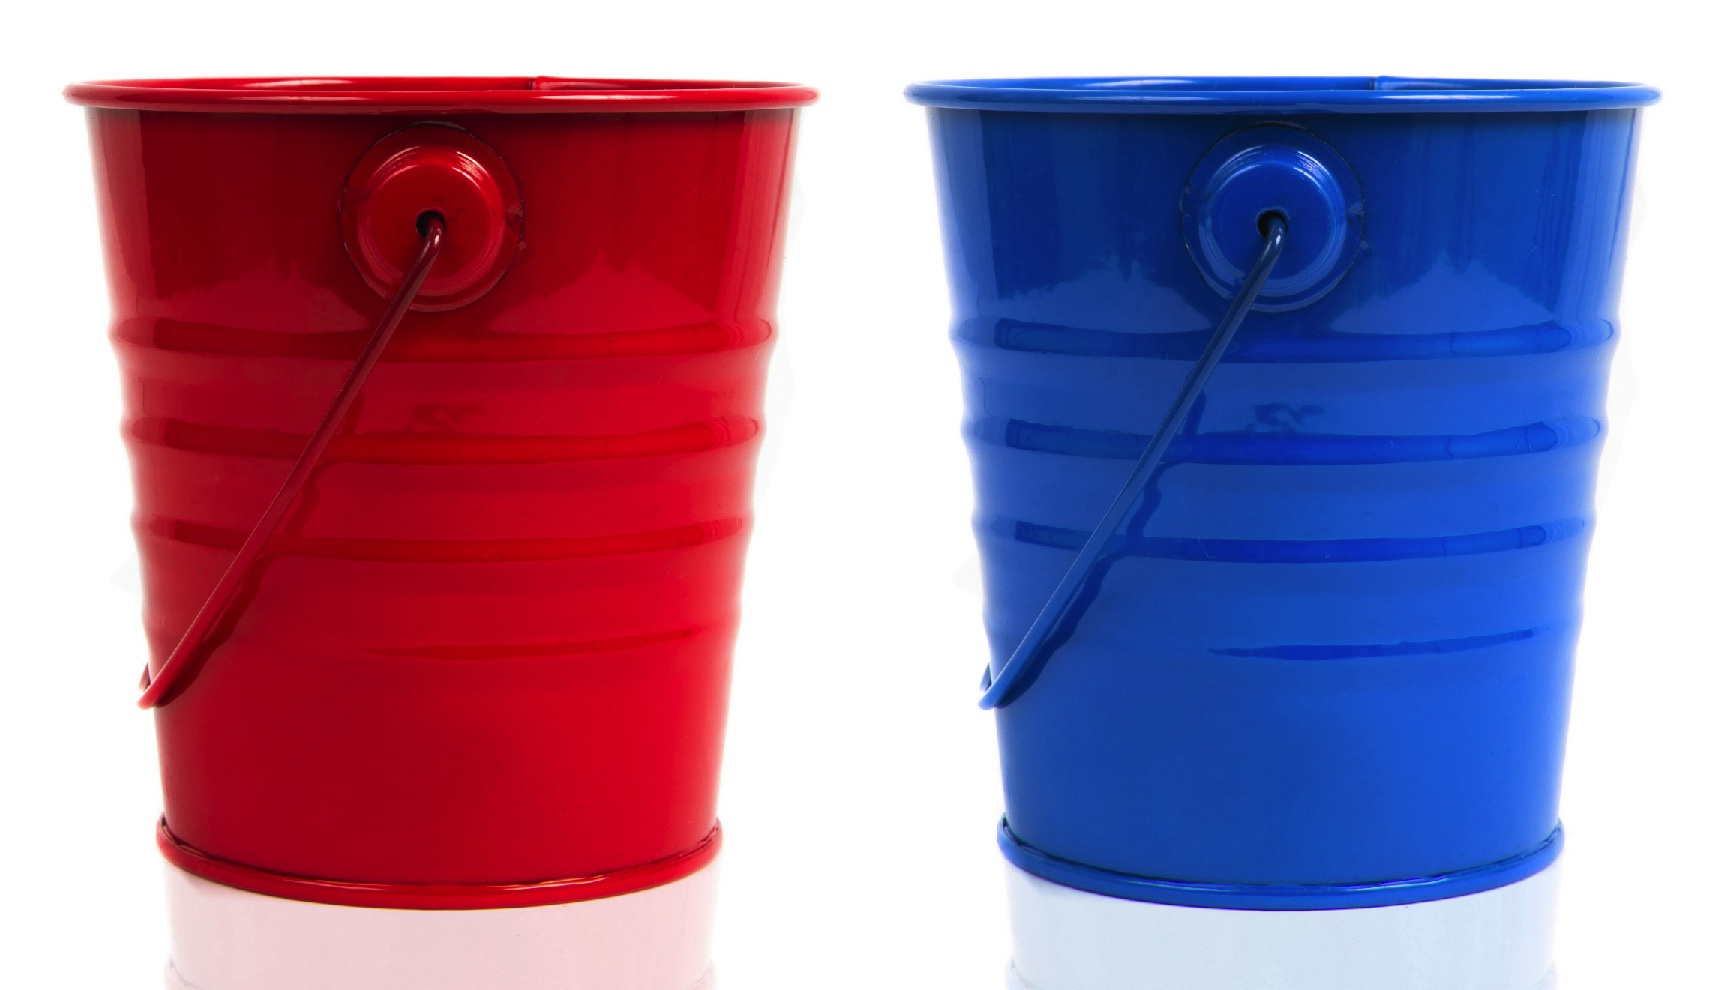
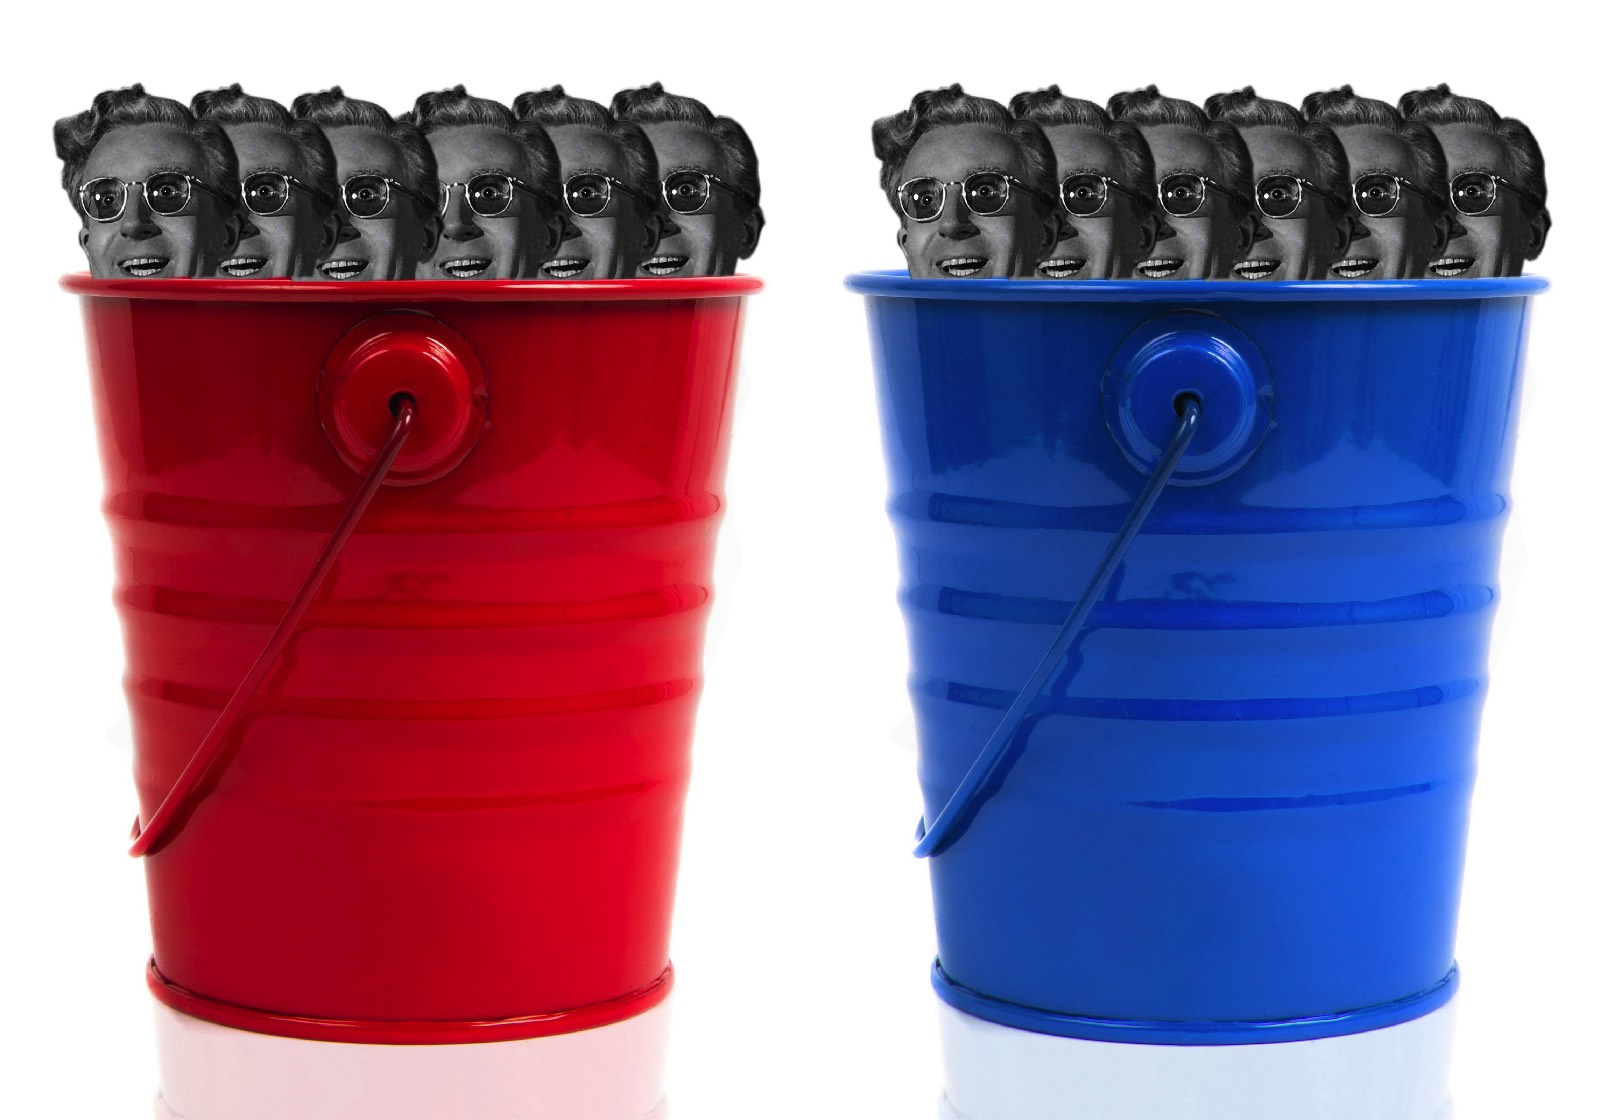
Update title and images

diff --git a/_posts/2015-08-18-pucket.md b/_posts/2015-08-18-pucket.md
@@ -1,6 +1,6 @@
 ---
 layout: post
-title: Improving Parquet's Filtering Performance with Pucket
+title: Dr. Pucketlove - Or, How I Learned to Stop Worrying and Love Parquet (partitioning)
 date: 2015-08-18 12:20:03
 excerpt: Pucket is a Partitioning System For Parquet
 image: /assets/images/Pucket.jpg
